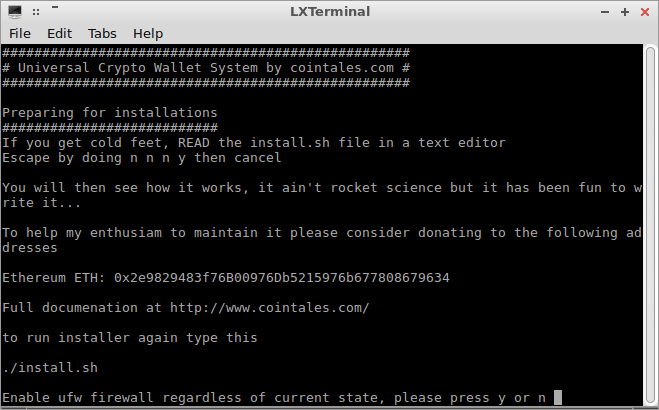
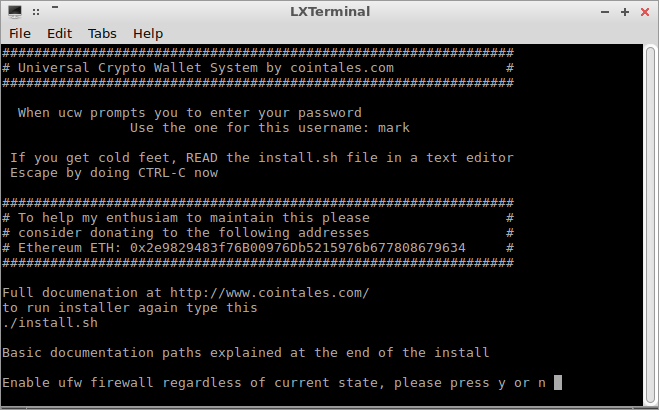
git not required during script, dropped a prompt updated screen shot

Changed region(s): [[0.0, 0.2634, 0.9712, 0.9951], [0.607, 0.1171, 0.7891, 0.2341]]

diff --git a/README.md b/README.md
@@ -58,8 +58,6 @@ cd /home/bob
 OK onwards with the installation of the script
 Then copy and past the following:
 ```
-$ sudo apt-get update
-$ sudo apt-get upgrade -y
 $ sudo apt-get install git
 $ git clone https://github.com/markcross/universal-crypto-wallet-system.git
 $ cd universal-crypto-wallet-system
